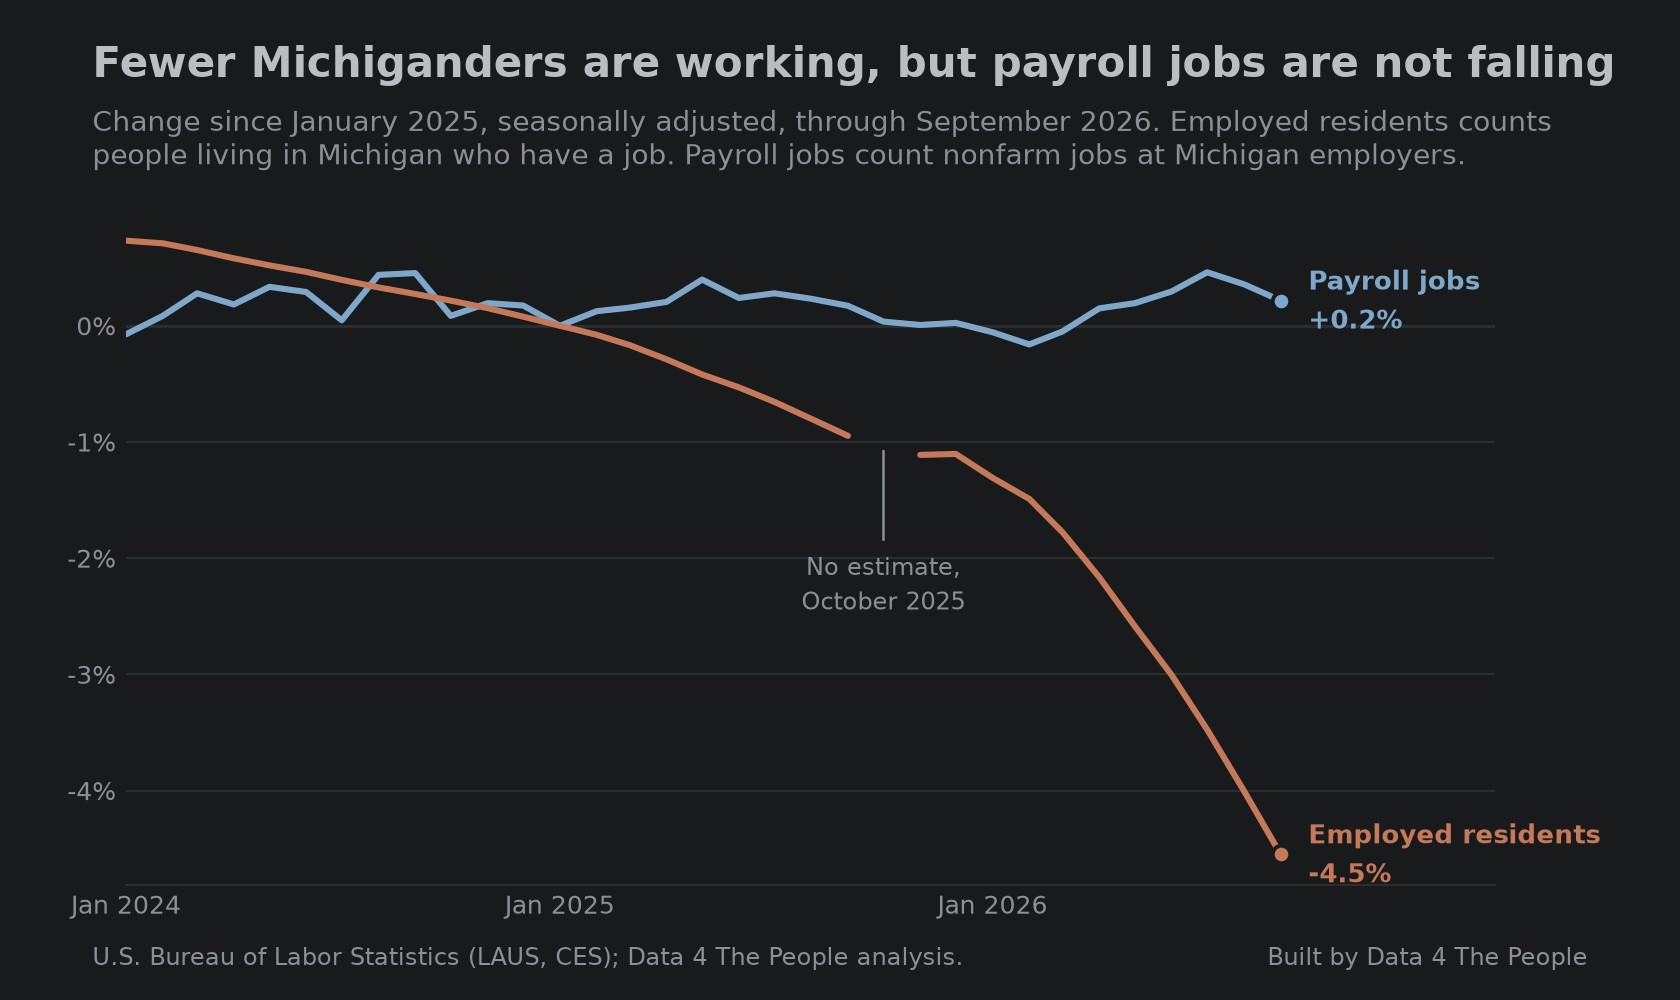
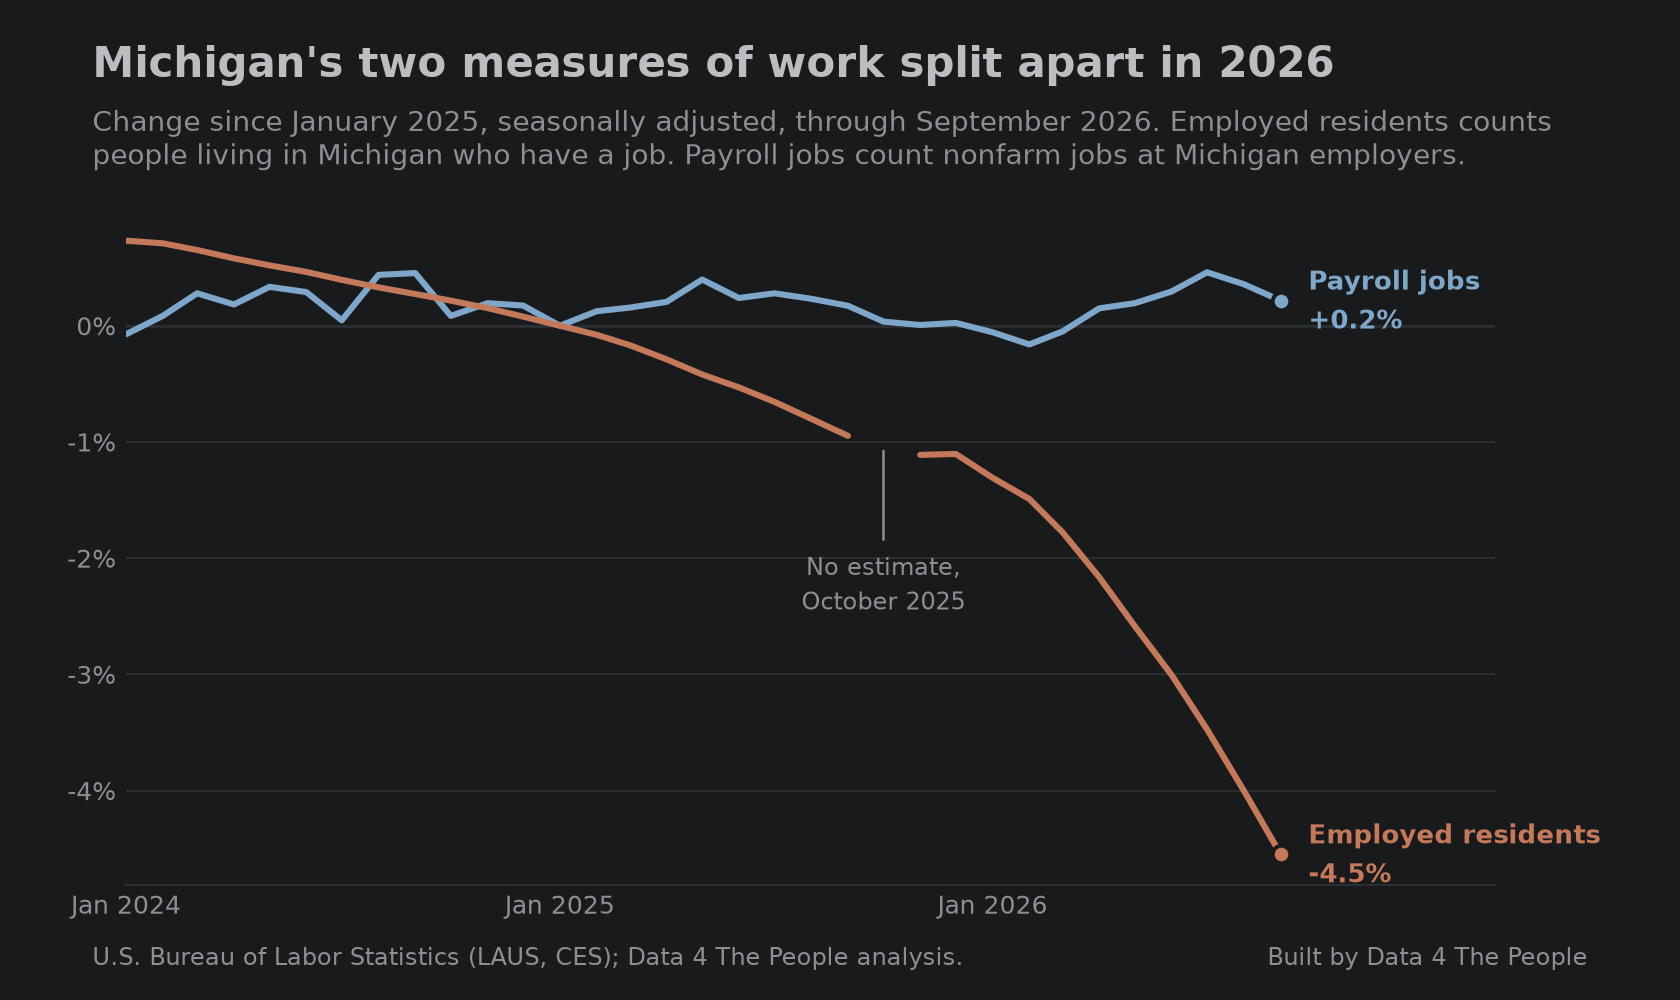
labor-force-september-2026: data-trust section edits; Michigan chart retitled; DATASETS.md covers its SA series

Changed region(s): [[0.0619, 0.031, 0.9595, 0.093]]

diff --git a/scripts/chart_michigan.py b/scripts/chart_michigan.py
@@ -136,7 +136,7 @@ def labor_force_vs_jobs(month: str) -> Path:
                     linespacing=1.4, arrowprops=dict(arrowstyle="-", color=MUTED, linewidth=0.9))
     ax.yaxis.set_major_formatter(FuncFormatter(lambda v, _: f"{v:+.0f}%" if v else "0%"))
     ax.grid(axis="y", color=GRID, linewidth=0.8)
-    frame(fig, "Fewer Michiganders are working, but payroll jobs are not falling",
+    frame(fig, "Michigan's two measures of work split apart in 2026",
           f"Change since January 2025, seasonally adjusted, through {last:%B %Y}. Employed residents counts\n"
           "people living in Michigan who have a job. Payroll jobs count nonfarm jobs at Michigan employers.",
           top=0.79)

diff --git a/posts/labor-force-september-2026/POST.md b/posts/labor-force-september-2026/POST.md
@@ -48,12 +48,12 @@ The chart below shows the share of counties in each band for every September sin
 
 One state accounts for half of the net increase of 40 counties. In Michigan, 20 counties entered structural loss in the past year and none left. The next largest net gains were in Minnesota (10), Oklahoma (9) and Tennessee (9).
 
-Initially, the rest of this post was about Michigan and its rapid labor force decline in 2026. But as we worked through our validation steps of the data, something concerning arose. Michigan's labor data in this BLS database disagrees with Michigan's data in another BLS labor database. Now, the two databases are different. They are based on surveys of different people. The data in our labor force visualization comes from a survey of the American population. The other data comes from a survey of businesses. If we asked the first group of MIchiganders, "how many of you are employed," and the second group, "how many employed people do you have," the answers should be at least similar right? They are not. The employer data says jobs are flat in Michigan. The population data says that employed residents are down an astounding 5% over the past year.
+Initially, the rest of this post was about Michigan and its rapid labor force decline in 2026. But as we worked through our validation steps of the data, something concerning arose. Michigan's labor data in this BLS database disagrees with Michigan's data in another BLS labor database. Now, the two databases are different. They are based on surveys of different people. The data in our labor force visualization comes mainly from a survey of American households. The other data comes from a survey of businesses. If we asked the first group of Michiganders, "how many of you are employed," and the second group, "how many employed people do you have," the answers should be at least similar, right? They are not. The employer data says jobs are flat in Michigan. The population data says that employed residents are down an astounding 4.5% since January 2025. The chart below shows both Michigan measures since January 2024.
 
 ![Line chart from January 2024 to September 2026 showing the change since January 2025 in two Michigan series, seasonally adjusted. Payroll jobs stay within a fraction of a percent of zero and end at plus 0.2%. Employed residents decline slowly through 2025, then fall faster in 2026 and end at minus 4.5%. The employed residents line has a gap at October 2025, when no estimate was published.](images/sep26-03-mi-labor-force-jobs.png)
-*Fewer Michiganders are working, but payroll jobs are not falling. Source: U.S. Bureau of Labor Statistics (LAUS, CES); Data 4 The People analysis.*
+*Michigan's two measures of work split apart in 2026. Source: U.S. Bureau of Labor Statistics (LAUS, CES); Data 4 The People analysis.*
 
-So, we went looking through other states data. The chart below shows the problem. It takes a minute to sink in, but it's worth the effort. For each state, we compare two numbers: how much the count of employed residents (based on the household survey) changed from a year earlier, and how much the count of jobs (as reported by employers) changed. If those two numbers are within 2 percentage points of each other, the state is not counted.
+So, we went looking through other states' data. The chart below shows the problem. It takes a minute to sink in, but it's worth the effort. For each state, we compare two numbers: how much the count of employed residents (based on the household survey) changed from a year earlier, and how much the count of jobs (as reported by employers) changed. If those two numbers are within 2 percentage points of each other, the state is not counted.
 
 Each pair of bars is one month. A bar below the line counts the states where employed residents trailed jobs by 2 points or more, like Michigan. A bar above the line counts the states where employed residents ran ahead of jobs by 2 points or more. When the two measures roughly agree, as they did in most months from 2015 to 2019, the bars stay short. A tall bar means many states got very different answers from the two measures in the same month.
 

diff --git a/DATASETS.md b/DATASETS.md
@@ -133,6 +133,14 @@ they are not pure survey readings. The seasonally adjusted series moves
 differently: Michigan employed residents fell 2.0% (not adjusted) and 1.3%
 (adjusted) from January 2025 to January 2026. Compare like with like.
 
+**Michigan chart (sep26-03).** The post's Michigan chart uses the seasonally
+adjusted series instead: `LASST260000000000005` (Michigan employed residents)
+against CES `SMS26000000000000001` (Michigan total nonfarm payroll jobs,
+seasonally adjusted), each as the percent change from January 2025, January
+2024 to September 2026, pulled by `scripts/fetch_sources.py` into
+`data/ces/mi_ces.csv`. Both are adjusted, so they compare like with like.
+September 2026: employed residents -4.5%, payroll jobs +0.2%.
+
 ## Quarterly Census of Employment and Wages, state totals (U.S. Bureau of Labor Statistics)
 
 **What it is.** Jobs at every employer covered by unemployment insurance, for
@@ -181,7 +189,8 @@ codes for multi-site employers are the main error source.
 
 **What it is.** Monthly estimate of payroll jobs at employers in each state,
 from a sample survey of employers. We use total nonfarm, not seasonally
-adjusted, only for the months QCEW does not yet cover.
+adjusted, only for the months QCEW does not yet cover. The Michigan chart
+also uses the seasonally adjusted Michigan series (see the LAUS section).
 
 **Where it comes from.** BLS public API v2, key `BLS_API_KEY`. Series
 `SMU<ff>000000000000001` for the 50 states and DC and `CEU0000000001` for the

diff --git a/TIEOUT.md b/TIEOUT.md
@@ -166,3 +166,5 @@ Fresh agent, raw data pulled again (LAUS la.data.64.County posted Oct 28, 2026; 
 
 
 - 2026-11-03: Wording fixes from the fourth tie-out applied (Katrina bullet now says September 2005 is missing; subtitle says net increase of 40 among counties with data in both years; state-gap chart title now cites June 2026 at 18). No numbers changed.
+
+- 2026-11-04: Michigan employed vs payroll chart (sep26-03) back in the post, retitled "Michigan's two measures of work split apart in 2026". Text now says -4.5% since January 2025 to match the chart (SA). Same values as the first tie-out of this chart (-4.5%, +0.2%).

diff --git a/STATUS-september-update.md b/STATUS-september-update.md
@@ -71,3 +71,4 @@ Since: 2026-11-03
 - 2026-11-03 Step 2e done.
 - 2026-11-03 Step 2f: date set to 2026-11-04, time 06:30 Eastern (EST, -05:00; DST ended Nov 1). Pushed to Prismic as draft auqkIhIAACwAbEjm in the Migration Release; 4 images uploaded. Tags and author empty.
 - 2026-11-04 Back to 2b (Eric: "i ended up making a lot of changes"). First section in: "But can we trust the latest data?", with the Michigan employed vs payroll chart (sep26-03) back in per his bracket.
+- 2026-11-04 2b: accepted 1, 2, 3, 5, 6 on the data-trust section; Michigan chart retitled; DATASETS.md covers the SA Michigan series.
